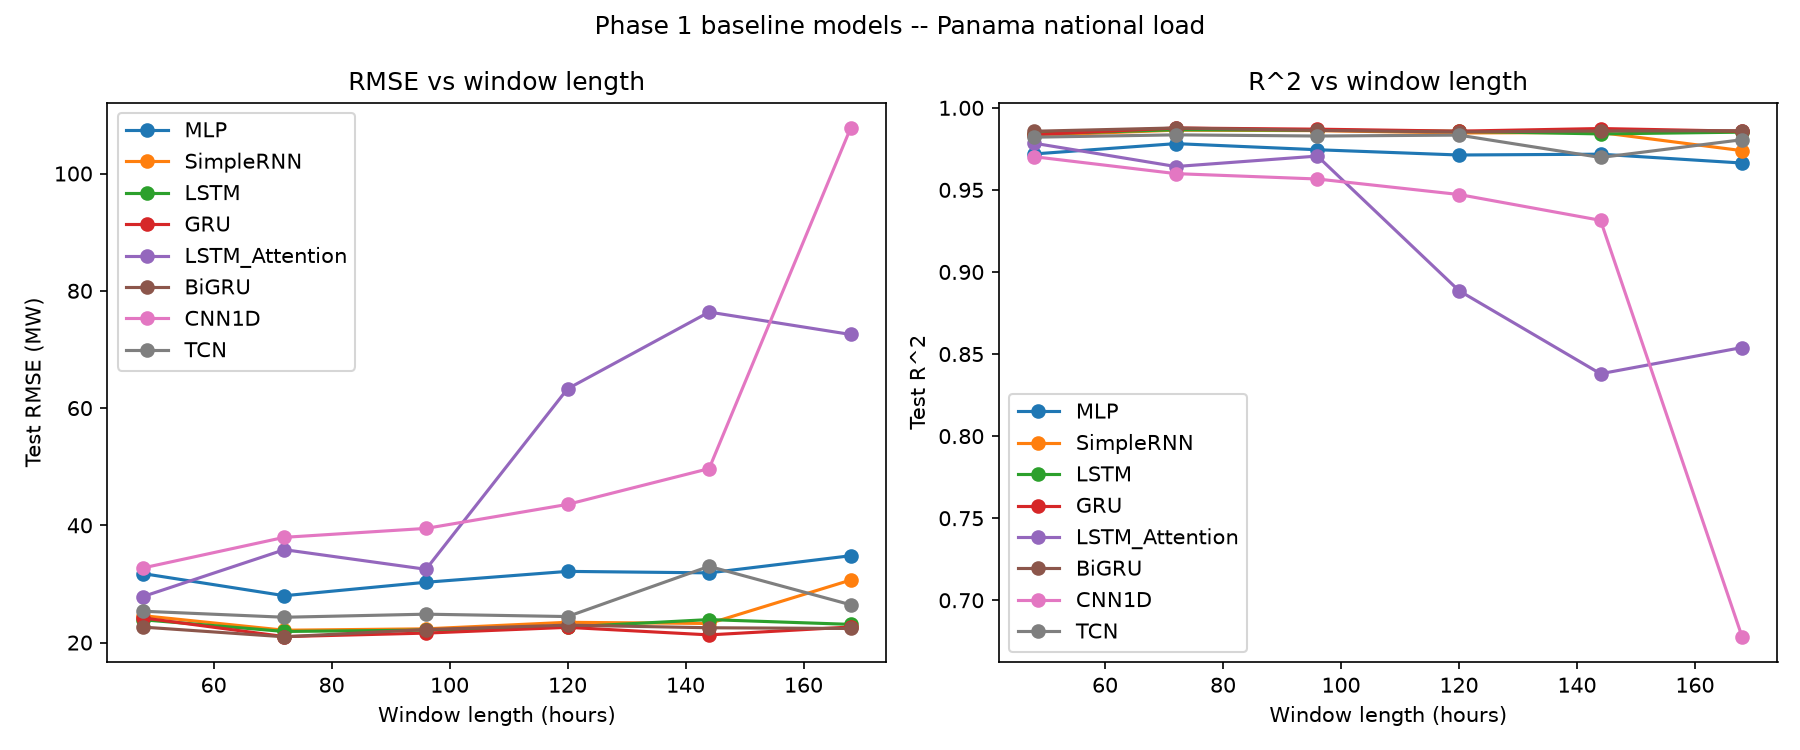
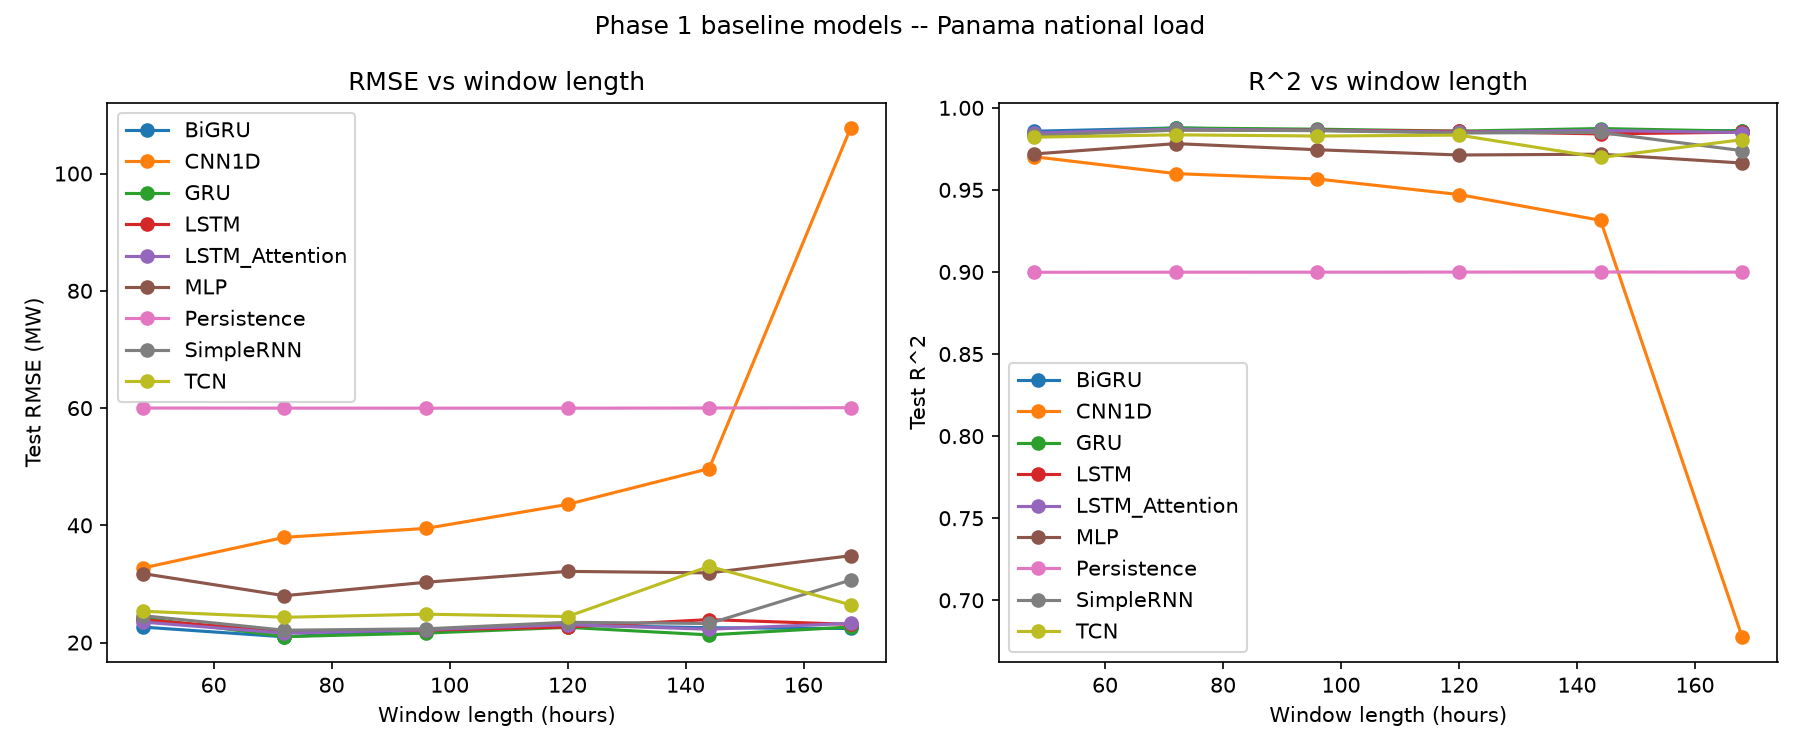
Fix LSTM+Attention to proper Bahdanau QKV, add persistence baseline and checkpointing
LSTM_Attention was query-less self-attention pooling with no value
projection, degrading badly on longer windows. Rewritten as standard
Bahdanau additive attention (query = final hidden state, learned
key/value projections over every timestep) -- now stable at R^2
0.985-0.987 across all window lengths, on par with GRU/BiGRU.

Adds a naive persistence baseline (R^2~0.90) so the trained models'
scores can be read against trivial autocorrelation, not just zero.
Every trained model is now checkpointed to results/checkpoints/
(gitignored) for Phase 2's XAI work to reload instead of retraining.
run_all() also accepts --models/--windows to retrain a subset without
touching the other architectures' already-computed results.

diff --git a/multivariate-forecasting/phase1_baseline_models.py b/multivariate-forecasting/phase1_baseline_models.py
@@ -29,7 +29,18 @@ Phase 4 has a real mechanism (real val split, HPO) to justify it against.
 Metrics: MAE, RMSE, R^2 (advisor's minimum) plus MAPE -- safe to add here
 since national_demand_mw never approaches zero (unlike e.g. solar
 irradiance, which is exactly zero at night and blows MAPE up).
+
+Also included: a "Persistence" naive baseline (predict y_t as the last
+known value, y_{t-1} -- no training, no parameters) so the R^2/RMSE of
+the real models can be read against how much is trivially explained by
+the series' own autocorrelation, not just against zero. And a checkpoint
+of every trained model's state_dict under results/checkpoints/, so Phase
+2's XAI work can load these exact weights instead of retraining --
+reload with build_model(name, seq_len, num_inputs, HIDDEN_SIZE)
+.load_state_dict(torch.load(path)).
 """
+import argparse
+import os
 import random
 import time
 
@@ -43,8 +54,11 @@ from sklearn.preprocessing import StandardScaler
 SEED = 42
 DATA_PATH = "data/processed/panama_load.csv"
 RESULTS_PATH = "results/phase1_baseline_results.csv"
+CHECKPOINT_DIR = "results/checkpoints"
 TARGET = "national_demand_mw"
 WINDOW_LENGTHS = [48, 72, 96, 120, 144, 168]
+TRAINED_MODEL_NAMES = ["MLP", "SimpleRNN", "LSTM", "GRU", "LSTM_Attention", "BiGRU", "CNN1D", "TCN"]
+ALL_MODEL_NAMES = TRAINED_MODEL_NAMES + ["Persistence"]
 HORIZON = 1
 TRAIN_FRACTION = 0.8
 EPOCHS = 30
@@ -166,21 +180,35 @@ class GRUForecaster(nn.Module):
 
 
 class LSTMAttentionForecaster(nn.Module):
-    """LSTM over the window, then additive attention pooling over every
-    timestep's hidden state (instead of using only the final one)."""
+    """LSTM over the window, then Bahdanau-style additive attention: the
+    LSTM's own final hidden state is the query, scored (with a tanh
+    nonlinearity) against every timestep's hidden state as keys --
+    score_t = v^T tanh(W1 h_t + W2 h_final). Values are a separate
+    learned projection (W_v) of the hidden states, not the raw hidden
+    states themselves -- this decouples "what determines the attention
+    weight" (Q/K space) from "what gets averaged into the context" (V
+    space), matching standard QKV attention instead of reusing the keys
+    as values. Context vector is concatenated with the final hidden state
+    before the output layer (Luong-style combine)."""
 
     def __init__(self, num_features, hidden_size):
         super().__init__()
         self.lstm = nn.LSTM(num_features, hidden_size, batch_first=True)
-        self.attn_score = nn.Linear(hidden_size, 1)
-        self.fc = nn.Linear(hidden_size, 1)
+        self.W1 = nn.Linear(hidden_size, hidden_size)  # keys
+        self.W2 = nn.Linear(hidden_size, hidden_size)  # query
+        self.W_v = nn.Linear(hidden_size, hidden_size)  # values
+        self.v = nn.Linear(hidden_size, 1)
+        self.fc = nn.Linear(hidden_size * 2, 1)
 
     def forward(self, x):
-        out, _ = self.lstm(x)  # (batch, seq_len, hidden)
-        scores = self.attn_score(out)  # (batch, seq_len, 1)
+        out, (h_n, _) = self.lstm(x)  # out: (batch, seq_len, hidden); h_n[-1]: (batch, hidden)
+        query = h_n[-1]
+        scores = self.v(torch.tanh(self.W1(out) + self.W2(query).unsqueeze(1)))  # (batch, seq_len, 1)
         weights = torch.softmax(scores, dim=1)
-        context = (weights * out).sum(dim=1)  # (batch, hidden)
-        return self.fc(context).squeeze(-1)
+        values = self.W_v(out)  # (batch, seq_len, hidden)
+        context = (weights * values).sum(dim=1)  # (batch, hidden)
+        combined = torch.cat([context, query], dim=1)  # (batch, hidden*2)
+        return self.fc(combined).squeeze(-1)
 
 
 class BiGRUForecaster(nn.Module):
@@ -330,7 +358,32 @@ def evaluate_model(model, X_test, y_test, target_scaler):
     return {"mae": mae, "rmse": rmse, "r2": r2, "mape": mape}, pred, true
 
 
-def run_all():
+def persistence_metrics(test_df, seq_len, horizon):
+    """Naive forecast: predict y_t as y_{t-1} (the last known value before
+    the horizon gap) -- no training, no parameters, no scaling needed
+    since it never leaves raw units. Evaluated on exactly the same target
+    indices the real models see for this window length (same offset
+    create_sequences uses), so it's a fair like-for-like comparison, not
+    an easier or harder subset of the test set."""
+    raw_target = test_df[TARGET].values
+    offset = seq_len + horizon - 1
+    true = raw_target[offset:]
+    pred = raw_target[offset - 1 : len(raw_target) - 1]
+    mae = mean_absolute_error(true, pred)
+    rmse = mean_squared_error(true, pred) ** 0.5
+    r2 = r2_score(true, pred)
+    mape = mean_absolute_percentage_error(true, pred) * 100
+    return {"mae": mae, "rmse": rmse, "r2": r2, "mape": mape}
+
+
+def run_all(model_names=None, window_lengths=None):
+    """model_names/window_lengths let you retrain just a subset (e.g. only
+    LSTM_Attention while iterating on it) instead of all 48 configs every
+    time. Results are upserted into RESULTS_PATH keyed on
+    (window_length_h, model) -- a partial run updates only its own rows,
+    it never wipes out the other architectures' already-computed results.
+    Defaults (no args) reproduce the full 48-config run exactly as before.
+    """
     _test_create_sequences()
     set_seed(SEED)
 
@@ -356,22 +409,35 @@ def run_all():
     test_inputs = np.concatenate([test_features, test_target.reshape(-1, 1)], axis=1)
     num_inputs = len(feature_cols) + 1
 
-    model_names = ["MLP", "SimpleRNN", "LSTM", "GRU", "LSTM_Attention", "BiGRU", "CNN1D", "TCN"]
+    model_names = model_names or ALL_MODEL_NAMES
+    window_lengths = window_lengths or WINDOW_LENGTHS
+    unknown = sorted(set(model_names) - set(ALL_MODEL_NAMES))
+    if unknown:
+        raise ValueError(f"unknown model name(s): {unknown}; choose from {ALL_MODEL_NAMES}")
     records = []
 
-    for seq_len in WINDOW_LENGTHS:
+    for seq_len in window_lengths:
         X_train, y_train = create_sequences(train_inputs, train_target, seq_len, HORIZON)
         X_test, y_test = create_sequences(test_inputs, test_target, seq_len, HORIZON)
 
         for name in model_names:
-            set_seed(SEED)  # identical init/shuffle across models and window lengths
-            model = build_model(name, seq_len, num_inputs, HIDDEN_SIZE)
-            n_params = sum(p.numel() for p in model.parameters())
+            if name == "Persistence":
+                metrics = persistence_metrics(test_df, seq_len, HORIZON)
+                n_params, elapsed, final_train_loss = 0, 0.0, float("nan")
+            else:
+                set_seed(SEED)  # identical init/shuffle across models and window lengths
+                model = build_model(name, seq_len, num_inputs, HIDDEN_SIZE)
+                n_params = sum(p.numel() for p in model.parameters())
 
-            start = time.time()
-            history = train_model(model, X_train, y_train, EPOCHS, BATCH_SIZE, LEARNING_RATE)
-            metrics, _, _ = evaluate_model(model, X_test, y_test, target_scaler)
-            elapsed = time.time() - start
+                start = time.time()
+                history = train_model(model, X_train, y_train, EPOCHS, BATCH_SIZE, LEARNING_RATE)
+                metrics, _, _ = evaluate_model(model, X_test, y_test, target_scaler)
+                elapsed = time.time() - start
+                final_train_loss = history[-1]
+
+                os.makedirs(CHECKPOINT_DIR, exist_ok=True)
+                checkpoint_path = os.path.join(CHECKPOINT_DIR, f"{name}_{seq_len}h.pt")
+                torch.save(model.state_dict(), checkpoint_path)
 
             print(
                 f"window={seq_len:>3}h  model={name:<15} "
@@ -382,8 +448,8 @@ def run_all():
                 "window_length_h": seq_len,
                 "model": name,
                 "params": n_params,
-                "epochs": EPOCHS,
-                "final_train_loss": history[-1],
+                "epochs": EPOCHS if name != "Persistence" else 0,
+                "final_train_loss": final_train_loss,
                 "mae": metrics["mae"],
                 "rmse": metrics["rmse"],
                 "r2": metrics["r2"],
@@ -391,11 +457,36 @@ def run_all():
                 "train_seconds": elapsed,
             })
 
-    results = pd.DataFrame(records)
+    new_results = pd.DataFrame(records)
+
+    key_cols = ["window_length_h", "model"]
+    if os.path.exists(RESULTS_PATH):
+        existing = pd.read_csv(RESULTS_PATH)
+        still_valid = existing.merge(new_results[key_cols], on=key_cols, how="left", indicator=True)
+        existing = existing[still_valid["_merge"].values == "left_only"]
+        results = pd.concat([existing, new_results], ignore_index=True)
+    else:
+        results = new_results
+    results = results.sort_values(key_cols).reset_index(drop=True)
+
     results.to_csv(RESULTS_PATH, index=False)
-    print(f"\nsaved: {RESULTS_PATH}  ({len(results)} rows)")
+    print(f"\nsaved: {RESULTS_PATH}  ({len(results)} rows total, {len(new_results)} updated this run)")
     return results
 
 
+def parse_args():
+    parser = argparse.ArgumentParser(description=__doc__)
+    parser.add_argument(
+        "--models", nargs="+", choices=ALL_MODEL_NAMES, default=None,
+        help="Subset of architectures to (re)train. Default: all 8.",
+    )
+    parser.add_argument(
+        "--windows", nargs="+", type=int, choices=WINDOW_LENGTHS, default=None,
+        help="Subset of window lengths (hours) to (re)train. Default: all 6.",
+    )
+    return parser.parse_args()
+
+
 if __name__ == "__main__":
-    run_all()
+    args = parse_args()
+    run_all(model_names=args.models, window_lengths=args.windows)

diff --git a/multivariate-forecasting/README.md b/multivariate-forecasting/README.md
@@ -46,8 +46,14 @@ Selected for the ≥3-detailed-comparison requirement. Deliberately kept to the 
 0. Dataset research (≥8 candidates gathered; #7/#3/#8 compared in detail) — done, Panama selected
 1. Baseline DL models — MLP, SimpleRNN, LSTM, GRU, LSTM+Attention, BiGRU, 1D-CNN, TCN (8 architectures) × 6 window lengths (48h-168h → 1h) = 48 runs, chronological split, no validation set, fixed 30-epoch budget. Inputs are the 14 exogenous features plus the target's own lag (`national_demand_mw` at t-seq_len..t-1) — standard autoregressive input, not leakage (see `phase1_baseline_models.py`'s `run_all()` for the reasoning). See `phase1_baseline_models.py`.
    - **Overfitting, documented not hidden:** with no validation signal, train loss keeps falling all 30 epochs while test RMSE bottoms out earlier (best epoch ~23/30 for the representative GRU/48h case) — dropout/weight decay were tried and barely helped, so Phase 1 results reflect "whatever a fixed 30-epoch budget produces" more than a tuned stopping point; see `plots/phase1_overfitting_evidence.png`.
-   - **Target lag matters a lot:** without the target's own history as input, R² capped out around 0.32-0.55 across all 8 architectures/6 windows — barely better than a naive persistence guess for a series this autocorrelated. Adding the lag pushed R² to ~0.68-0.99, confirming the target's own recent past was the dominant missing signal. LSTM_Attention and CNN1D degrade at longer windows (R² drops to 0.68-0.89 past 120h) while MLP/SimpleRNN/LSTM/GRU/BiGRU/TCN stay in the high-0.9s across all 6 window lengths — best single config: **BiGRU @ 72h, R²=0.988, RMSE=20.99 MW, MAPE=1.21%**.
+   - **Target lag matters a lot:** without the target's own history as input, R² capped out around 0.32-0.55 across all 8 architectures/6 windows — barely better than a naive persistence guess for a series this autocorrelated. Adding the lag pushed R² to ~0.93-0.99 for every architecture, confirming the target's own recent past was the dominant missing signal.
+   - **Persistence baseline (added for context, not one of the 8 architectures):** naive "next hour = last known hour" forecast scores R²≈0.90 on this series regardless of window length (see `persistence_metrics()` in `phase1_baseline_models.py`). Every trained architecture clears this by a wide margin (R² 0.93-0.99), so the high R² values are genuine model skill on top of the series' own autocorrelation, not just restating it.
+   - **LSTM_Attention:** initial version used query-less self-attention pooling and no separate value projection — degraded badly at longer windows (R² down to 0.68-0.89 past 120h). Rewritten as proper Bahdanau-style additive attention (query = LSTM's final hidden state, keys/values both learned projections of every timestep's hidden state) — now stable across all windows (R² 0.985-0.987), on par with GRU/BiGRU.
+   - CNN1D is the one architecture that still degrades at the longest window (R² 0.68 at 168h) — plain 2-layer Conv1d without dilation has a fixed, short receptive field regardless of nominal window length, unlike TCN which scales its dilation depth to the window (`_tcn_levels_for`).
+   - Best single config: **BiGRU @ 72h, R²=0.988, RMSE=20.99 MW, MAPE=1.21%**.
    - Dataset is also truncated before 2020-03 (see #7 above) to remove a genuine train/test distribution shift (COVID-19 demand shock) that was compounding the overfitting signal.
+   - Every trained model's weights are checkpointed to `results/checkpoints/{model}_{window}h.pt` (gitignored, regenerable by rerunning the script) so Phase 2's XAI work can reload them instead of retraining — `build_model(name, seq_len, num_inputs, HIDDEN_SIZE).load_state_dict(torch.load(path))`.
+   - Rerun a subset instead of all 48 configs with `python phase1_baseline_models.py --models <name...> --windows <hours...>`; results are upserted into the CSV by (window, model), never wiping other rows.
    - Plots: `plots/phase1_window_length_comparison.png`, `plots/phase1_overfitting_evidence.png`, `plots/phase1_actual_vs_predicted.png`, `plots/phase1_error_over_time.png`.
 2. XAI feature ranking (SHAP/LIME, feature-level not lag-level)
 3. Top-k feature subset experiments (k = 3,4,5,6,8,10)
